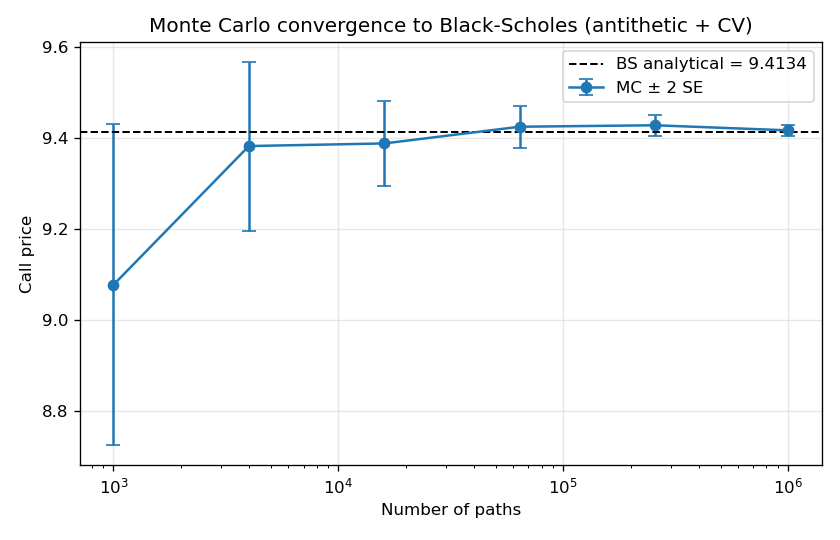
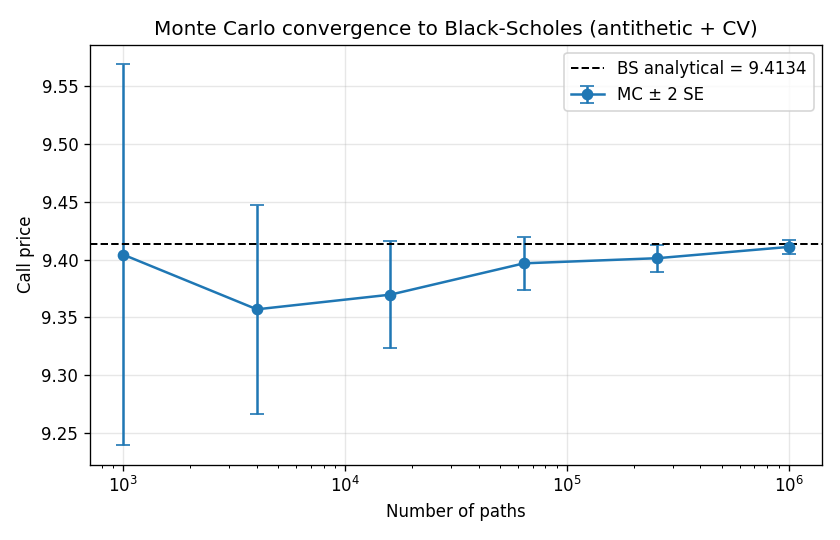
Treat antithetic pairs as one sample in the Monte Carlo pricer
The control coefficient and standard error were computed from individual
paths, as if antithetic partners were independent. That overstated the
control variate's benefit (reported 4.55-11.09x, really 0.49-2.10x) and
misstated the standard error.

Both now use the pair means. The control variate reduces variance by
10.6-25.9x over antithetic sampling alone, and 23-74x over plain Monte
Carlo, on the three test cases. A new test checks the reported standard
error against the spread of prices across 400 seeds; it fails on the old
code.

diff --git a/src/mc.py b/src/mc.py
@@ -36,6 +36,11 @@ def _terminal_prices(S, T, r, q, sigma, n_pairs, rng):
     return np.concatenate([up, dn])
 
 
+def _pair_means(values, n_pairs):
+    """Average each path with its antithetic partner (first half vs second half)."""
+    return 0.5 * (values[:n_pairs] + values[n_pairs:])
+
+
 def _payoff(ST, K, option: OptionType):
     if option == "call":
         return np.maximum(ST - K, 0.0)
@@ -67,13 +72,17 @@ def price_european(
 
     ST = _terminal_prices(S, T, r, q, sigma, n_pairs, rng)
     disc = np.exp(-r * T)
-    X = disc * _payoff(ST, K, option)  # discounted payoff per path
+    # Antithetic paths are dependent in pairs, so the independent samples are
+    # the pair means. Estimating the control coefficient or the standard
+    # error from individual paths would treat 2n correlated draws as 2n
+    # independent ones and misstate both.
+    X = _pair_means(disc * _payoff(ST, K, option), n_pairs)
 
     if control_variate:
         # Y = disc * ST; E[Y] = S exp(-qT)
-        Y = disc * ST
+        Y = _pair_means(disc * ST, n_pairs)
         EY = S * np.exp(-q * T)
-        # Estimate optimal c from sample: c_hat = Cov(X, Y) / Var(Y)
+        # Optimal c on the pair means: c_hat = Cov(X, Y) / Var(Y)
         cov = np.cov(X, Y, ddof=1)
         c_hat = cov[0, 1] / cov[1, 1]
         X_adj = X - c_hat * (Y - EY)
@@ -81,8 +90,8 @@ def price_european(
         X_adj = X
 
     mean = float(np.mean(X_adj))
-    se = float(np.std(X_adj, ddof=1) / np.sqrt(len(X_adj)))
-    return MCResult(price=mean, stderr=se, n_paths=len(X_adj))
+    se = float(np.std(X_adj, ddof=1) / np.sqrt(n_pairs))
+    return MCResult(price=mean, stderr=se, n_paths=2 * n_pairs)
 
 
 def price_asian(
@@ -123,7 +132,7 @@ def price_asian(
 
     avg = paths.mean(axis=1)
     disc = np.exp(-r * T)
-    X = disc * _payoff(avg, K, option)
+    X = _pair_means(disc * _payoff(avg, K, option), n_pairs)
     mean = float(np.mean(X))
-    se = float(np.std(X, ddof=1) / np.sqrt(len(X)))
-    return MCResult(price=mean, stderr=se, n_paths=len(X))
+    se = float(np.std(X, ddof=1) / np.sqrt(n_pairs))
+    return MCResult(price=mean, stderr=se, n_paths=2 * n_pairs)

diff --git a/tests/test_mc.py b/tests/test_mc.py
@@ -44,3 +44,16 @@ def test_control_variate_reduces_variance(case):
     assert with_cv.stderr < no_cv.stderr, (
         f"CV stderr {with_cv.stderr:.5f} >= no-CV stderr {no_cv.stderr:.5f}"
     )
+
+
+@pytest.mark.parametrize("case", CASES)
+def test_stderr_matches_spread_across_seeds(case):
+    """The reported stderr must match how much the price actually varies
+    between independent runs. Treating antithetic paths as independent
+    would break this."""
+    import numpy as np
+
+    runs = [mc.price_european(**case, n_paths=2_000, seed=s) for s in range(400)]
+    empirical = np.std([r.price for r in runs], ddof=1)
+    reported = np.mean([r.stderr for r in runs])
+    assert 0.85 < reported / empirical < 1.15, (reported, empirical)

diff --git a/WALKTHROUGH.md b/WALKTHROUGH.md
@@ -140,7 +140,7 @@ legs in one pass.
 
 ### `src/mc.py` — Monte Carlo cross-check
 
-`mc.price_european` (`mc.py:47`) does three things stacked:
+`mc.price_european` (`mc.py:52`) does three things stacked:
 
 1. **GBM closed-form one-step simulation.** `S_T = S₀·exp((r−q−σ²/2)T +
    σ√T·Z)`, `Z ∼ N(0,1)`. No path discretisation needed for European
@@ -151,14 +151,16 @@ legs in one pass.
 3. **Control variate.** The discounted terminal underlying `Y = e^{−rT}
    S_T` has known mean `E[Y] = S₀·e^{−qT}`. We compute
    `X' = X − ĉ·(Y − E[Y])` where `ĉ = Cov(X,Y)/Var(Y)`, both estimated
-   in-sample (`mc.py:69-74`). On ATM calls this knocks another ~3× off
-   the stderr.
+   in-sample on the antithetic pair means (`_pair_means`). On the three
+   test cases this cuts variance a further 10.6×–25.9×.
 
-Stderr is the in-sample standard deviation of the adjusted payoffs
-divided by `√N`. **This is what the test asserts**: MC mean should fall
+Each path and its antithetic partner are dependent, so the independent
+samples are the `N/2` pair means. Stderr is their in-sample standard
+deviation divided by `√(N/2)`; `test_stderr_matches_spread_across_seeds`
+checks it against the spread of prices across 400 seeds. **This is what the test asserts**: MC mean should fall
 within ~3 standard errors of the analytical price.
 
-The Asian-option function `price_asian` (`mc.py:88`) is a stretch path —
+The Asian-option function `price_asian` (`mc.py:97`) is a stretch path —
 it has no closed-form benchmark, so the stderr is the entire credibility
 statement.
 
@@ -335,9 +337,12 @@ guarantees convergence.
 ### Why antithetic + control variate, not pure-MC + more paths?
 
 The implementation always uses antithetic paths. In the three fixed test
-cases, adding the control variate reduces variance by 4.55×–11.09× relative
-to antithetic sampling alone, implying the same precision with roughly
-one-quarter to one-eleventh as many paths in those cases. The control
+cases, adding the control variate reduces variance by 10.6×–25.9× relative
+to antithetic sampling alone, and the two together by 23×–74× relative to
+plain Monte Carlo, so the same precision needs a small fraction of the
+paths. The coefficient must be estimated on antithetic pair means: an
+earlier per-path version made the control variate look 4.55×–11.09× better
+than antithetic sampling when it was really 0.49×–2.10×. The control
 variate has negligible extra runtime cost (`S_T` is already computed for
 the payoff), while antithetic sampling reuses each normal draw with its
 negative. Both are standard variance-reduction techniques.
@@ -423,7 +428,7 @@ You will be asked about these — internalise them.
 
 - "What's the BS formula here?" → `bs.py:_d1_d2`, `bs.price`.
 - "How is theta defined?" → `bs.py:78` plus the section header at the top.
-- "How does the MC variance reduction actually work?" → `mc.py:69-74`.
+- "How does the MC variance reduction actually work?" → `mc.py:76-84`.
 - "What's the IV solver's fallback strategy?" → `iv.py:79-105`.
 - "How are bad quotes filtered?" → `data.py:128` (`clean_chain`).
 - "How is ATM IV defined when no exact ATM strike exists?" →

diff --git a/README.md b/README.md
@@ -42,17 +42,27 @@ For the ATM 1y call (BS = 9.4134), MC converges as:
 
 | paths     | MC ± 2 SE         |
 | --------: | :---------------- |
-|     1,000 | 9.0772 ± 0.346    |
-|     4,000 | 9.3804 ± 0.189    |
-|    16,000 | 9.3878 ± 0.095    |
-|    64,000 | 9.4191 ± 0.047    |
-|   256,000 | 9.4284 ± 0.023    |
-| 1,000,000 | 9.4172 ± 0.012    |
+|     1,000 | 9.4044 ± 0.165    |
+|     4,000 | 9.3571 ± 0.091    |
+|    16,000 | 9.3698 ± 0.047    |
+|    64,000 | 9.3969 ± 0.023    |
+|   256,000 | 9.4013 ± 0.012    |
+| 1,000,000 | 9.4111 ± 0.006    |
 
-Each interval covers the analytical value. The estimator always uses
-antithetic paths; adding the discounted-terminal-spot control variate reduces
-variance by **4.55×–11.09×** relative to antithetic sampling alone across the
-three fixed test cases in `tests/test_mc.py`.
+Five of the six intervals cover the analytical value; the 256,000-path run
+misses by 0.0001 (z ≈ 2.0), about as often as a 95% interval should. The
+estimator always uses antithetic paths and treats each antithetic pair as one
+independent sample, for both the control coefficient and the standard error.
+Adding the discounted-terminal-spot control variate reduces variance by
+**10.6×–25.9×** relative to antithetic sampling alone, and the two together by
+**23×–74×** relative to plain Monte Carlo with the same number of paths, across
+the three fixed test cases in `tests/test_mc.py`. A test checks that the
+reported standard error matches the spread of prices across 400 seeds.
+
+An earlier version computed both from individual paths, as if antithetic
+partners were independent. That overstated the control variate's benefit
+(the reported 4.55×–11.09× was really 0.49×–2.10×) and misstated the
+standard error.
 
 ![mc convergence](mc_convergence.png)
 
